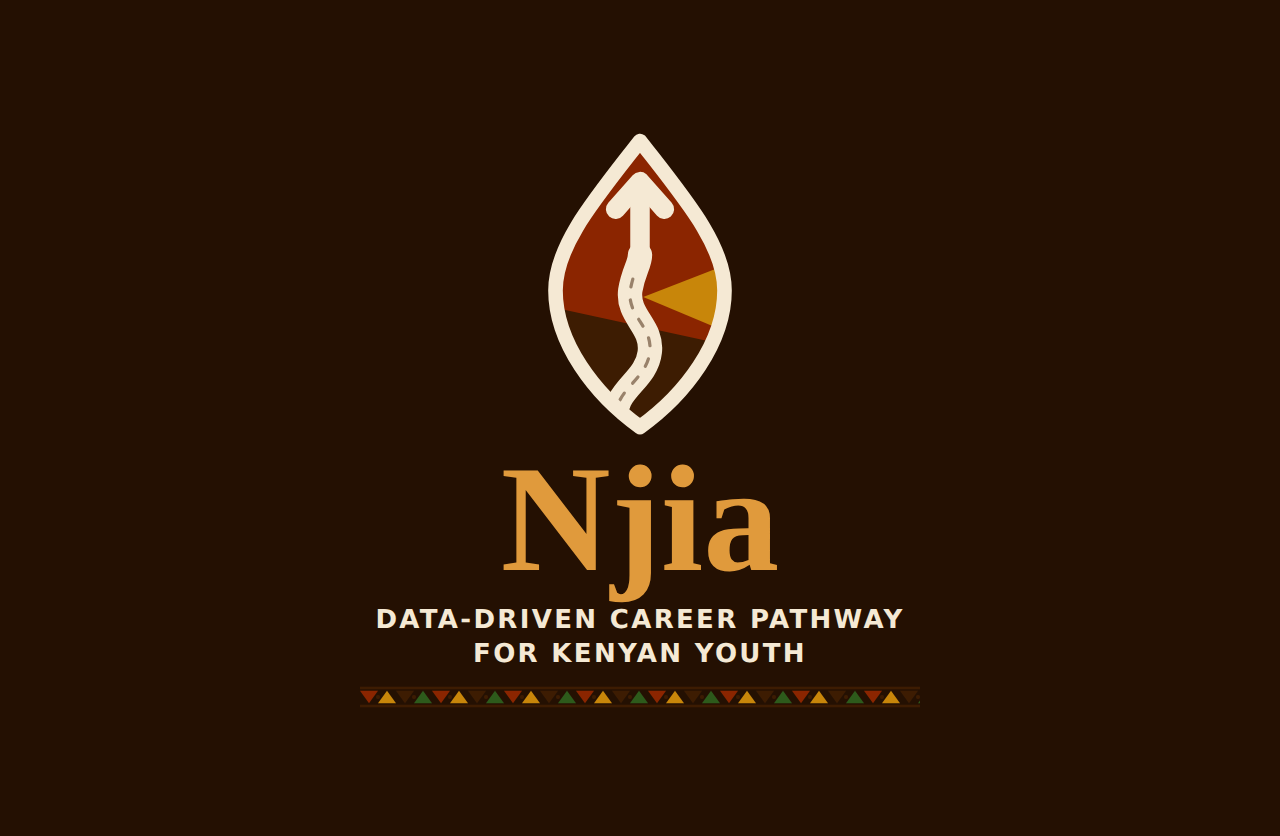
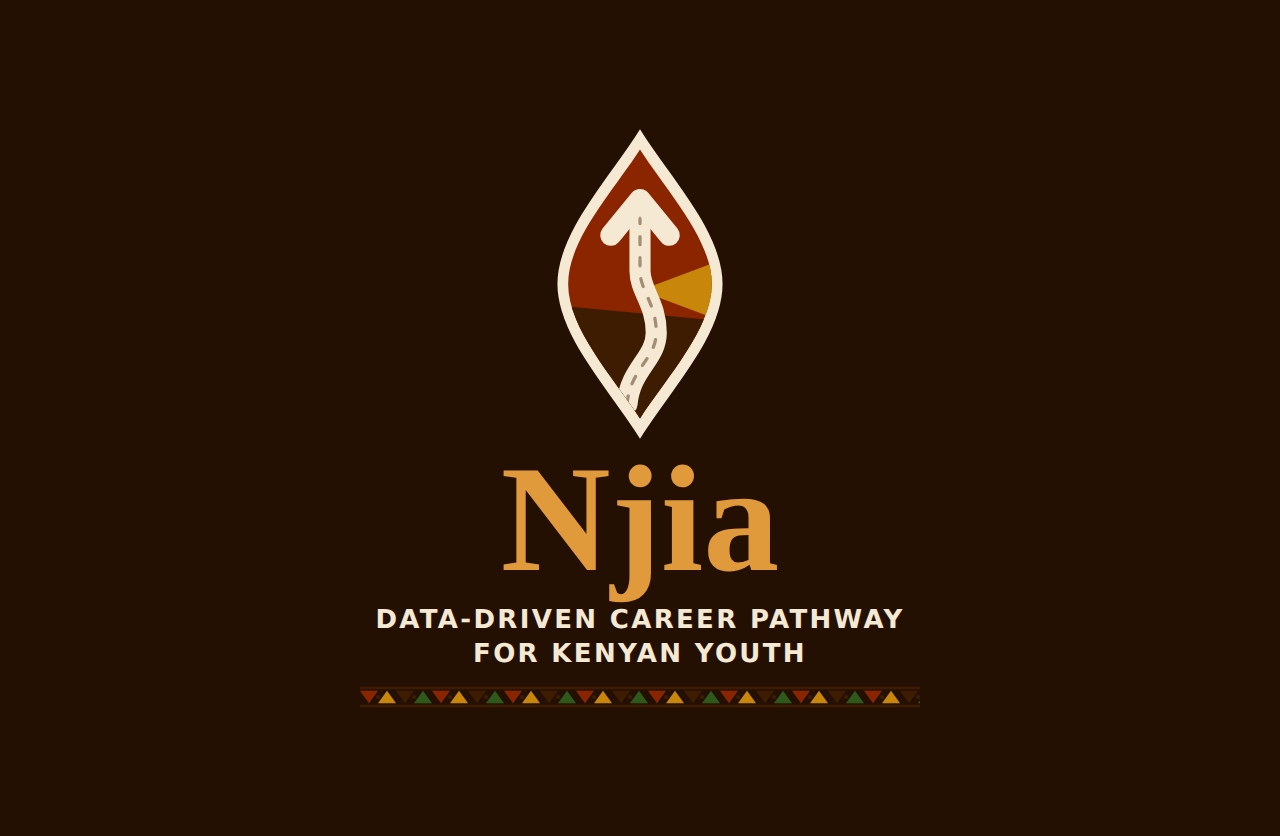
Give the share card a build step, because that is why it went stale
Redrawing the mark corrected the app icons within minutes — they have a
generator and a staleness test. icons/og-image.jpg had neither. It was
made once by hand and committed, so it kept the retired shield while
everything else moved, and it is the single most visible surface this app
has: it is the picture WhatsApp shows when a school-leaver forwards the
link, which is how Njia actually spreads. The brand/ lockups were in the
same position and were also a rebrand behind.

The lesson is not "remember to rebuild". An artefact with no build step
and no guard will drift, so this gives the card both.

tools/build-og-image.mjs composes it from the app's own assets — the live
--serif, the palette read out of :root, and icons/logo-mark.svg itself —
so a palette or type change reaches the card on the next run instead of
leaving it quietly off-brand. It is separate from build-brand-assets.mjs
because that script writes to brand/, which the app never loads, while
the share card is a runtime asset index.html points og:image straight at.
Light scheme is pinned for the same reason the other generators pin it:
the mark carries a prefers-color-scheme rule for its standalone favicon
use, and unpinned the outline would vanish against the card's dark ground
on one build machine and not another.

The staleness guard now covers every generated raster of the mark rather
than the four in icons/, and the generator-exists check covers all three
[…]

Changed region(s): [[0.4062, 0.1866, 0.5938, 0.5287]]

diff --git a/tests/artefacts.test.js b/tests/artefacts.test.js
@@ -184,8 +184,41 @@ test('the PNG icons are rebuilt whenever the source mark changes', () => {
     + `${stale.join(', ')}. Run \`node tools/build-icons.mjs\` and bump CACHE_VERSION in sw.js.`);
 });
 
-test('the icon generator ships alongside the icons it generates', () => {
-  /* A build step nobody can find is a build step nobody runs. */
-  assert.ok(fs.existsSync(path.join(root, 'tools', 'build-icons.mjs')),
-    'tools/build-icons.mjs is gone, so the icons above can no longer be regenerated from the mark');
+/* EVERY RASTER OF THE MARK, NOT JUST THE FOUR IN icons/.
+ *
+ * The guard above covered the app icons and they were correct within minutes
+ * of the mark being redrawn. icons/og-image.jpg was not covered and had no
+ * generator at all — made once by hand and committed — so it kept the retired
+ * shield. That is the single most visible surface Njia has: it is the picture
+ * WhatsApp shows when a school-leaver forwards the link, which is how this app
+ * actually spreads. The brand/ lockups were in the same position.
+ *
+ * The lesson is not "remember to rebuild". It is that an artefact with no
+ * build step and no guard will drift, and the fix is to give it both. */
+test('every generated raster of the mark is rebuilt when the mark changes', () => {
+  const svgTime = fs.statSync(path.join(root, 'icons', 'logo-mark.svg')).mtimeMs;
+  const derived = [
+    'icons/og-image.jpg',
+    'brand/lockup-stacked.png',
+    'brand/lockup-stacked-dark.png',
+    'brand/social-banner-16x9.png'
+  ];
+  const stale = derived.filter((f) => fs.statSync(path.join(root, f)).mtimeMs < svgTime);
+  assert.deepEqual(stale, [],
+    `these still render the previous mark: ${stale.join(', ')}. `
+    + 'Run `node tools/build-og-image.mjs` and/or `node tools/build-brand-assets.mjs`. '
+    + 'og-image.jpg is the one that matters most — it is what a shared link looks like.');
+});
+
+test('the generators ship alongside the artefacts they generate', () => {
+  /* A build step nobody can find is a build step nobody runs — and one that
+   * never existed is why the share card went a rebrand out of date. */
+  for (const [tool, what] of [
+    ['build-icons.mjs', 'the PWA icons'],
+    ['build-og-image.mjs', 'the link-share card'],
+    ['build-brand-assets.mjs', 'the brand lockups and banner']
+  ]) {
+    assert.ok(fs.existsSync(path.join(root, 'tools', tool)),
+      `tools/${tool} is gone, so ${what} can no longer be regenerated from the mark`);
+  }
 });

diff --git a/brand/README.md b/brand/README.md
@@ -33,6 +33,15 @@ foot — a different silhouette, which is the whole of what a mark is recognised
 by at 16px. `icons/logo-mark.svg` and the `#i-njia` sprite were redrawn to the
 sheets and the four PNGs regenerated from them.
 
+## `icons/og-image.jpg` now has a generator too
+
+It did not, which is why it kept the retired shield mark after the redraw while
+every other raster was correct within minutes. It is the picture WhatsApp shows
+when someone forwards a Njia link — the app's main distribution channel — so it
+was the worst possible file to leave hand-made. Rebuild with
+`node tools/build-og-image.mjs`, and note that social platforms cache share
+cards hard: re-scrape the URL in the Facebook/WhatsApp debugger after a change.
+
 ## These are not app assets
 
 They live in `brand/`, deliberately outside `icons/`. Nothing in the app
